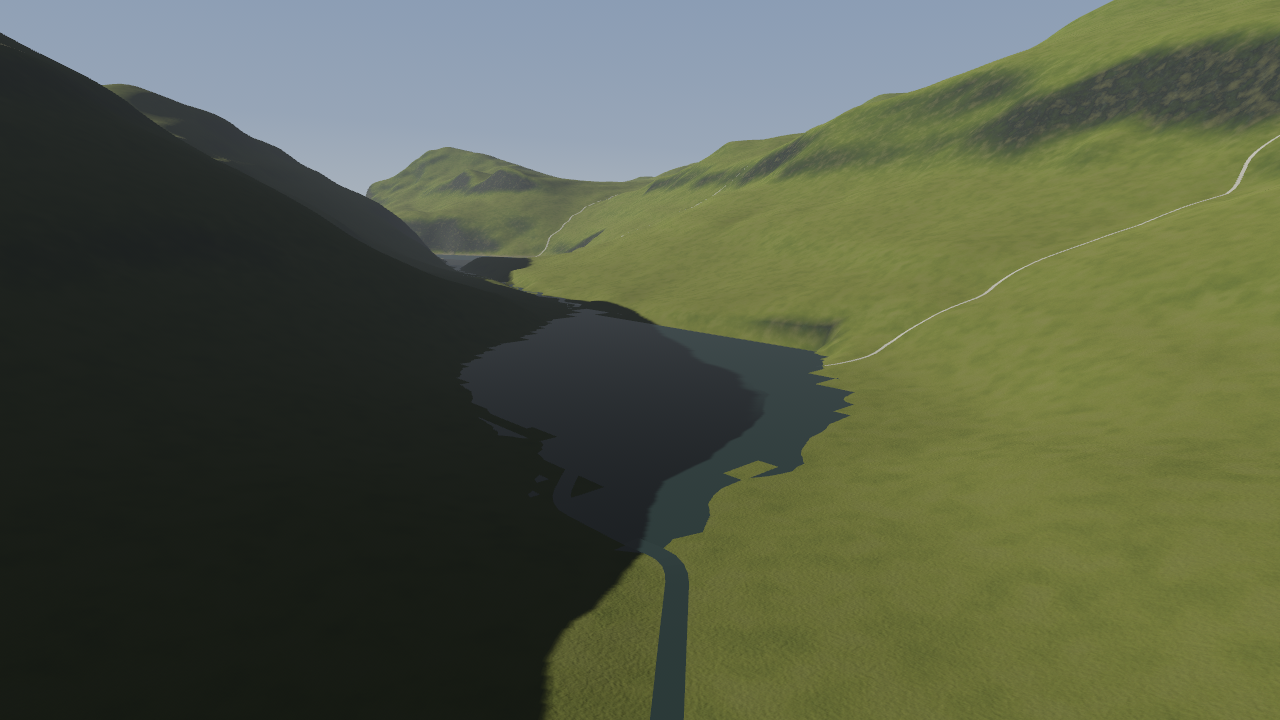
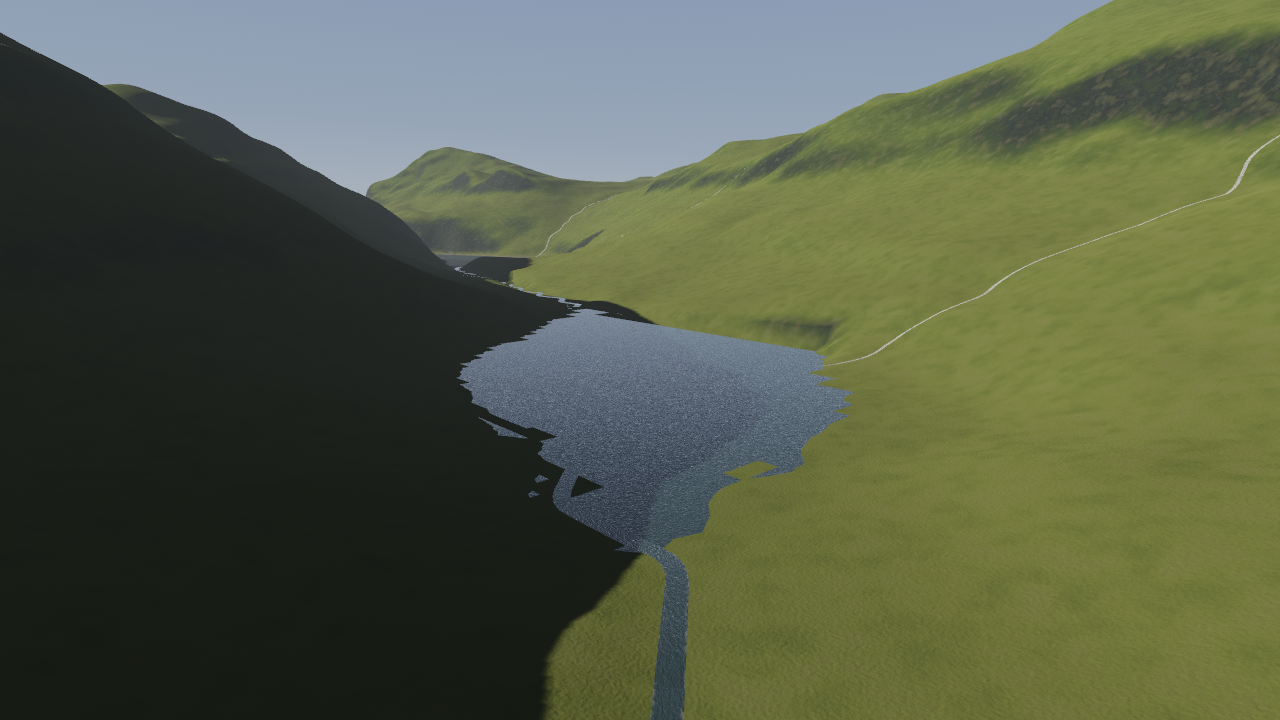
Water looks like water: flowing ripples and foam, sky reflection, mist at falls
water.wesl draws streams and lakes: ripples and foam scroll downstream at a speed
set by the slope, steep stretches turn white, the sky is reflected with a
Fresnel term, and each waterfall gets mist where it lands. Stream vertices
carry their flow frame (UV across/along, tangent downstream, colour: foam,
speed, half width). Streams running into the sea end at its surface.

Claude-Session: https://claude.ai/code/session_01QVmU9bYq4urEHigcrkTXBd

Changed region(s): [[0.3438, 0.3972, 0.6875, 0.8861]]

diff --git a/crates/de_client/src/water.rs b/crates/de_client/src/water.rs
@@ -1,42 +1,126 @@
-//! Streams, waterfalls and lakes as meshes, from [`de_world::water::Water`].
+//! Streams, waterfalls and lakes as meshes and a material, from [`de_world::water::Water`].
 //!
-//! Streams are ribbons laid on the ground mesh (which has their channels cut in), split into
-//! calm water and white water where they fall steeply. Lakes are flat sheets at their level
-//! over their cells and one ring around them; the carved shore hides the edge.
+//! Streams are ribbons laid on the ground mesh (which has their channels cut in). Each vertex
+//! carries the stream's own frame for `water.wesl`: across and along in its UV, downstream as
+//! its tangent, and white-water amount, flow speed and half width in its colour, so ripples
+//! and foam move downstream at the water's speed. Lakes are flat sheets at their level over
+//! their cells and two cells around them; the carved shore hides the edge. Every waterfall
+//! gets a sheet of mist where it lands.
 
 use bevy::{
-    asset::RenderAssetUsages,
+    asset::{RenderAssetUsages, embedded_asset},
     mesh::{Indices, PrimitiveTopology},
+    pbr::{ExtendedMaterial, MaterialExtension},
     prelude::*,
+    render::render_resource::{AsBindGroup, ShaderType},
+    shader::ShaderRef,
 };
-use de_world::{Heightfield, water::Water};
+use de_world::{Heightfield, island::Look, water::Water};
 
-use crate::scene::Surface;
+use crate::scene::{SEA_LEVEL_M, Surface};
 
 /// How far water sits above the ground mesh under it, metres.
 const LIFT_M: f32 = 0.25;
-/// A stream is white water where it drops more than this per metre.
-pub const WHITE_GRADIENT: f32 = 0.22;
+/// Where a stream drops this much per metre it is fully white water; it starts at half that.
+pub const WHITE_GRADIENT: f32 = 0.3;
 
-/// Triangle lists for calm stream water, white water and lakes.
+pub type WaterMaterial = ExtendedMaterial<StandardMaterial, WaterExt>;
+
+#[derive(Asset, AsBindGroup, TypePath, Clone, Debug)]
+pub struct WaterExt {
+    #[uniform(100)]
+    pub params: WaterParams,
+}
+
+#[derive(ShaderType, Clone, Copy, Debug)]
+pub struct WaterParams {
+    pub deep: Vec4,
+    pub foam: Vec4,
+    pub horizon: Vec4,
+    pub zenith: Vec4,
+    /// x: 0 water, 1 mist; y: sky reflection strength; z: ripple strength.
+    pub flags: Vec4,
+}
+
+impl MaterialExtension for WaterExt {
+    fn fragment_shader() -> ShaderRef {
+        "embedded://de_client/water.wesl".into()
+    }
+}
+
+pub struct WaterPlugin;
+
+impl Plugin for WaterPlugin {
+    fn build(&self, app: &mut App) {
+        embedded_asset!(app, "water.wesl");
+        app.add_plugins(MaterialPlugin::<WaterMaterial>::default());
+    }
+}
+
+/// The water material, or the mist material when `mist` is set.
+pub fn material(look: &Look, zenith: [f32; 3], mist: bool) -> WaterMaterial {
+    let v = |c: [f32; 3]| Vec4::new(c[0], c[1], c[2], 1.0);
+    WaterMaterial {
+        base: StandardMaterial {
+            base_color: Color::WHITE,
+            perceptual_roughness: 0.06,
+            reflectance: 0.5,
+            alpha_mode: if mist { AlphaMode::Blend } else { AlphaMode::Opaque },
+            cull_mode: if mist { None } else { Some(bevy::render::render_resource::Face::Back) },
+            double_sided: mist,
+            ..default()
+        },
+        extension: WaterExt {
+            params: WaterParams {
+                deep: v(look.stream),
+                foam: v(look.foam),
+                horizon: v(look.horizon),
+                zenith: v(zenith),
+                flags: Vec4::new(if mist { 1.0 } else { 0.0 }, 1.0, 1.0, 0.0),
+            },
+        },
+    }
+}
+
+/// Meshes for streams (with white water), lakes and the mist at waterfalls.
 #[derive(Default)]
 pub struct WaterMeshes {
-    pub calm: Builder,
-    pub white: Builder,
+    pub streams: Builder,
     pub lakes: Builder,
+    pub mist: Builder,
+}
+
+/// What `water.wesl` needs per vertex besides position and normal.
+#[derive(Clone, Copy)]
+struct Lane {
+    /// Downstream, horizontal.
+    dir: Vec2,
+    /// Metres along the stream at the quad's first and second edge.
+    along: [f32; 2],
+    /// White-water amount and flow speed at each edge.
+    foam: [f32; 2],
+    speed: [f32; 2],
+    half_width: [f32; 2],
+}
+
+impl Lane {
+    const LAKE: Lane = Lane { dir: Vec2::X, along: [0.0; 2], foam: [0.0; 2], speed: [0.0; 2], half_width: [0.0; 2] };
 }
 
 #[derive(Default)]
 pub struct Builder {
     pub positions: Vec<[f32; 3]>,
     pub normals: Vec<[f32; 3]>,
+    pub uvs: Vec<[f32; 2]>,
+    pub colors: Vec<[f32; 4]>,
+    pub tangents: Vec<[f32; 4]>,
     pub indices: Vec<u32>,
 }
 
 impl Builder {
-    fn quad(&mut self, p: [[f32; 3]; 4]) {
-        // p: a-left, a-right, b-left, b-right. Wound so the face points up (Bevy culls back
-        // faces, and water is seen from above), with the quad's own slope as its normal.
+    /// p: a-left, a-right, b-left, b-right. Wound so the face points up (Bevy culls back
+    /// faces, and water is seen from above), with the quad's own slope as its normal.
+    fn quad(&mut self, p: [[f32; 3]; 4], lane: Lane) {
         let e1 = Vec3::from(p[2]) - Vec3::from(p[0]);
         let e2 = Vec3::from(p[1]) - Vec3::from(p[0]);
         let mut n = e1.cross(e2).normalize_or(Vec3::Y);
@@ -47,6 +131,13 @@ impl Builder {
         let i = self.positions.len() as u32;
         self.positions.extend_from_slice(&p);
         self.normals.extend(std::iter::repeat_n(n.to_array(), 4));
+        // UV x: -1 on the left bank, +1 on the right; y: metres along.
+        for (k, side) in [(0, -1.0), (0, 1.0), (1, -1.0), (1, 1.0)] {
+            self.uvs.push([side, lane.along[k]]);
+            self.colors.push([lane.foam[k], lane.speed[k], lane.half_width[k], 1.0]);
+        }
+        let t = [lane.dir.x, 0.0, lane.dir.y, 1.0];
+        self.tangents.extend(std::iter::repeat_n(t, 4));
         if flip {
             self.indices.extend_from_slice(&[i, i + 1, i + 2, i + 1, i + 3, i + 2]);
         } else {
@@ -62,6 +153,9 @@ impl Builder {
         Mesh::new(PrimitiveTopology::TriangleList, RenderAssetUsages::RENDER_WORLD)
             .with_inserted_attribute(Mesh::ATTRIBUTE_POSITION, self.positions)
             .with_inserted_attribute(Mesh::ATTRIBUTE_NORMAL, self.normals)
+            .with_inserted_attribute(Mesh::ATTRIBUTE_UV_0, self.uvs)
+            .with_inserted_attribute(Mesh::ATTRIBUTE_TANGENT, self.tangents)
+            .with_inserted_attribute(Mesh::ATTRIBUTE_COLOR, self.colors)
             .with_inserted_indices(Indices::U32(self.indices))
     }
 }
@@ -74,30 +168,70 @@ pub fn meshes(water: &Water, field: &Heightfield, surface: &Surface) -> WaterMes
         if p.len() < 2 {
             continue;
         }
-        // Surface height under each point: never below the water level, always on the ground.
+        // Height under each point: on the ground, up to the water level where the channel is
+        // cut, and never below the sea where a stream runs into it.
         let y: Vec<f32> = p
             .iter()
-            .map(|q| surface.height(q[0], q[2]).max(q[1].min(surface.height(q[0], q[2]) + 3.0)) + LIFT_M)
+            .map(|q| {
+                let g = surface.height(q[0], q[2]);
+                g.max(q[1].min(g + 3.0)).max(SEA_LEVEL_M) + LIFT_M
+            })
             .collect();
-        let side = |k: usize| {
+        let dir = |k: usize| {
             let (a, b) = (p[k.saturating_sub(1)], p[(k + 1).min(p.len() - 1)]);
-            let t = Vec2::new(b[0] - a[0], b[2] - a[2]).normalize_or(Vec2::X);
-            Vec2::new(-t.y, t.x)
+            Vec2::new(b[0] - a[0], b[2] - a[2]).normalize_or(Vec2::X)
         };
         let grad = |k: usize| {
             let (a, b) = (k.saturating_sub(1), (k + 1).min(p.len() - 1));
             let run = (p[b][0] - p[a][0]).hypot(p[b][2] - p[a][2]).max(0.1);
-            (y[a] - y[b]) / run
+            ((y[a] - y[b]) / run).max(0.0)
         };
+        // Flow speed grows with the slope, like water over a rough bed (roughly Manning's sqrt).
+        let speed = |k: usize| (0.4 + 4.0 * grad(k).sqrt()).min(8.0);
+        let foam = |k: usize| ((grad(k) / WHITE_GRADIENT - 0.5) * 2.0).clamp(0.0, 1.0);
+        let mut along = 0.0;
         for k in 0..p.len() - 1 {
+            let step = (p[k + 1][0] - p[k][0]).hypot(p[k + 1][2] - p[k][2]);
             let edge = |k: usize| {
-                let n = side(k) * s.width_m[k] * 0.5;
+                let d = dir(k);
+                let n = Vec2::new(-d.y, d.x) * s.width_m[k] * 0.5;
                 let (x, z) = (p[k][0], p[k][2]);
                 [[x - n.x, y[k], z - n.y], [x + n.x, y[k], z + n.y]]
             };
             let (a, b) = (edge(k), edge(k + 1));
-            let target = if grad(k).max(grad(k + 1)) > WHITE_GRADIENT { &mut out.white } else { &mut out.calm };
-            target.quad([a[0], a[1], b[0], b[1]]);
+            let lane = Lane {
+                dir: (dir(k) + dir(k + 1)).normalize_or(Vec2::X),
+                along: [along, along + step],
+                foam: [foam(k), foam(k + 1)],
+                speed: [speed(k), speed(k + 1)],
+                half_width: [s.width_m[k] * 0.5, s.width_m[k + 1] * 0.5],
+            };
+            out.streams.quad([a[0], a[1], b[0], b[1]], lane);
+            along += step;
+        }
+    }
+    // Mist where each waterfall lands: three crossed upright sheets, sized by the drop.
+    for f in &water.falls {
+        let size = (f.drop_m * 0.5).clamp(12.0, 70.0);
+        let base = Vec3::new(f.bottom[0], f.bottom[1].max(SEA_LEVEL_M), f.bottom[2]);
+        for k in 0..3 {
+            let a = k as f32 * std::f32::consts::PI / 3.0;
+            let d = Vec3::new(a.cos(), 0.0, a.sin()) * size * 0.5;
+            let up = Vec3::Y * size * 0.9;
+            let i = out.mist.positions.len() as u32;
+            for (pos, uv) in [
+                (base - d, [0.0, 0.0]),
+                (base + d, [1.0, 0.0]),
+                (base - d + up, [0.0, 1.0]),
+                (base + d + up, [1.0, 1.0]),
+            ] {
+                out.mist.positions.push((pos - Vec3::Y * 2.0).to_array());
+                out.mist.normals.push([0.0, 1.0, 0.0]);
+                out.mist.uvs.push(uv);
+                out.mist.colors.push([1.0; 4]);
+                out.mist.tangents.push([1.0, 0.0, 0.0, 1.0]);
+            }
+            out.mist.indices.extend_from_slice(&[i, i + 2, i + 1, i + 1, i + 2, i + 3]);
         }
     }
     // Lakes: a sheet on the ground mesh's grid over the lake and two cells around it, left out
@@ -139,7 +273,7 @@ pub fn meshes(water: &Water, field: &Heightfield, surface: &Surface) -> WaterMes
                         b as f32 * surface.step[1] - surface.extent[1] / 2.0,
                     ]
                 };
-                out.lakes.quad(corners.map(at));
+                out.lakes.quad(corners.map(at), Lane::LAKE);
             }
         }
     }
@@ -168,13 +302,17 @@ mod tests {
         let look = Look { relief_m: 0.0, ..Look::default() };
         let surface = Surface::new(&field, &look, "t", Some((&water, 1.2)));
         let m = meshes(&water, &field, &surface);
-        assert!(!m.calm.is_empty() && !m.white.is_empty());
-        for p in m.calm.positions.iter().chain(&m.white.positions) {
+        assert!(!m.streams.is_empty() && !m.mist.is_empty());
+        let n = m.streams.positions.len();
+        assert_eq!((m.streams.uvs.len(), m.streams.colors.len(), m.streams.tangents.len()), (n, n, n));
+        assert!(m.streams.colors.iter().any(|c| c[0] > 0.5), "the cliff step is white water");
+        assert!(m.streams.colors.iter().any(|c| c[0] == 0.0), "the gentle floor is calm");
+        for p in &m.streams.positions {
             let g = surface.height(p[0], p[2]);
             assert!(p[1] >= g + LIFT_M - 0.01, "water above the ground: {p:?} ground {g}");
         }
         // Every triangle faces up (counter-clockwise seen from above), or it would be culled.
-        for b in [&m.calm, &m.white, &m.lakes] {
+        for b in [&m.streams, &m.lakes] {
             for t in b.indices.chunks(3) {
                 let [a, p, q] = [t[0], t[1], t[2]].map(|i| Vec3::from(b.positions[i as usize]));
                 assert!((p - a).cross(q - a).y > 0.0, "triangle {t:?} faces down");

diff --git a/crates/de_client/src/scene.rs b/crates/de_client/src/scene.rs
@@ -50,7 +50,7 @@ pub struct ScenePlugin;
 
 impl Plugin for ScenePlugin {
     fn build(&self, app: &mut App) {
-        app.add_plugins(GroundPlugin)
+        app.add_plugins((GroundPlugin, crate::water::WaterPlugin))
             .register_type::<CameraRig>()
             .init_resource::<CameraTarget>()
             .add_systems(Startup, spawn_scene);
@@ -60,6 +60,8 @@ impl Plugin for ScenePlugin {
 /// Ground below sea level is pushed down this far, so the coast drops away under the water
 /// instead of z-fighting with it (the DEM stores the sea as 0 m).
 const SEABED_M: f32 = -25.0;
+/// Sky colour overhead, linear RGB (the horizon colour is `look.horizon`).
+pub const SKY_ZENITH: [f32; 3] = [0.10, 0.24, 0.52];
 /// Vertical field of view of the camera, degrees.
 pub const FOV_Y_DEG: f32 = 55.0;
 
@@ -72,7 +74,10 @@ fn spawn_scene(
     (target, sketch): (Res<CameraTarget>, Option<Res<Sketch>>),
     mut meshes: ResMut<Assets<Mesh>>,
     mut materials: ResMut<Assets<StandardMaterial>>,
-    mut terrain_materials: ResMut<Assets<TerrainMaterial>>,
+    (mut terrain_materials, mut water_materials): (
+        ResMut<Assets<TerrainMaterial>>,
+        ResMut<Assets<crate::water::WaterMaterial>>,
+    ),
     mut images: ResMut<Assets<Image>>,
 ) {
     let island = Island::load(&source.content, &source.id).unwrap_or_else(|e| panic!("{e}"));
@@ -95,16 +100,10 @@ fn spawn_scene(
     ));
 
     let wm = crate::water::meshes(&water, &field, &surface);
-    let lin = |c: [f32; 3]| Color::linear_rgb(c[0], c[1], c[2]);
-    let calm = materials.add(StandardMaterial {
-        base_color: lin(look.stream),
-        perceptual_roughness: 0.08,
-        reflectance: 0.5,
-        ..default()
-    });
-    let white = materials.add(StandardMaterial { base_color: lin(look.foam), perceptual_roughness: 0.55, ..default() });
+    let water_mat = water_materials.add(crate::water::material(&look, SKY_ZENITH, false));
+    let mist_mat = water_materials.add(crate::water::material(&look, SKY_ZENITH, true));
     for (name, b, mat) in
-        [("streams", wm.calm, calm.clone()), ("white water", wm.white, white), ("lakes", wm.lakes, calm)]
+        [("streams", wm.streams, water_mat.clone()), ("lakes", wm.lakes, water_mat), ("mist", wm.mist, mist_mat)]
     {
         if !b.is_empty() {
             commands.spawn((Name::new(name), NotShadowCaster, Mesh3d(meshes.add(b.mesh())), MeshMaterial3d(mat)));
@@ -355,7 +354,7 @@ fn relief(w: usize, d: usize, seed: u32) -> Vec<f32> {
 /// A hemisphere-and-a-bit, seen from inside, coloured from the horizon up to the zenith.
 fn sky_mesh(radius: f32, look: &Look) -> Mesh {
     let mut mesh = Sphere::new(radius).mesh().uv(48, 24);
-    let zenith = [0.10, 0.24, 0.52];
+    let zenith = SKY_ZENITH;
     let positions: Vec<[f32; 3]> = match mesh.attribute(Mesh::ATTRIBUTE_POSITION) {
         Some(bevy::mesh::VertexAttributeValues::Float32x3(p)) => p.clone(),
         _ => unreachable!("sphere meshes have Float32x3 positions"),

diff --git a/docs/agents.md b/docs/agents.md
@@ -125,6 +125,11 @@ de water saksun          # out/water/saksun/: water.md, water.json, map.png, fal
 de-shot out/water/saksun/falls.steps.json out/falls --tier check   # one shot per waterfall
 ```
 
+The water is drawn by `crates/de_client/src/water.wesl`: ripples and foam scroll downstream at a speed set by the
+slope, steep stretches turn white, the sky is reflected with a Fresnel term (there is no environment map), and every
+waterfall gets mist where it lands. Colours are `look.stream` and `look.foam`. It moves with game time, so record a
+clip (a `drone` step with `clip`) and read its `motion.json` for flicker after changing it.
+
 Thresholds live in `content/islands/<id>/rules.json` (`de schema rules`), under `water`. When the data is wrong,
 fix it there with `overrides`: `{"remove_streams": {"at": [x, z], "radius_m": r}}`, `{"remove_lake": {"at": [x, z]}}`
 or `{"add_stream": {"path": [[x, z], ...], "catchment_km2": a}}` (world metres, x east, z south). `map.png` draws our

diff --git a/docs/ROADMAP.md b/docs/ROADMAP.md
@@ -32,8 +32,8 @@ verdict.
 ## Step 4: Water from the land's own data
 
 First slice done (streams, waterfalls and lakes from the DEM, `rules.json` with overrides, `de water` with a map
-against WorldCover and a waterfall sheet). Still to do: the lagoon with tide, an FFT sea with shore foam, spray at
-falls, flowing water normals, and the cached generation graph.
+against WorldCover and a waterfall sheet), with moving water, foam, sky reflection and mist at the falls. Still to
+do: the lagoon with tide, an FFT sea with shore foam, and the cached generation graph.
 
 - **Game:** the real streams of Saksun, found from the DEM; waterfalls where they drop over cliffs; the lagoon with
   tide; an FFT sea with foam on the shore.
